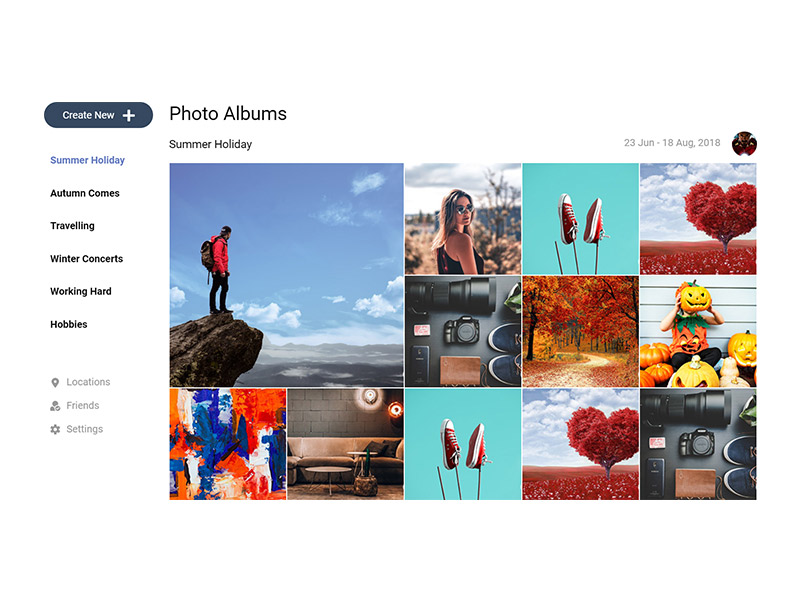
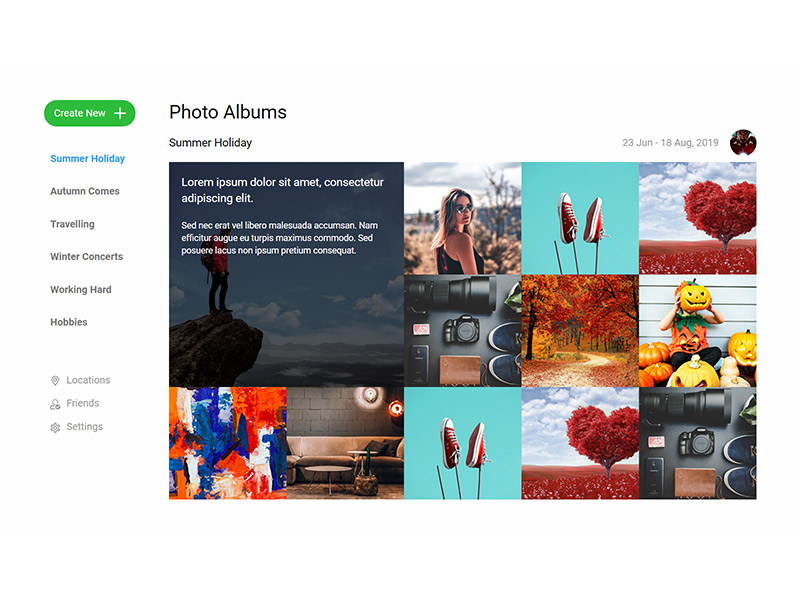
Documentation updates.

diff --git a/docs/photo-albums.html b/docs/photo-albums.html
@@ -63,15 +63,15 @@
             <div class="row">
                 <div class="col-static padding-30-v sm-responsive">
                     <div class="static-200 padding-30 order-sm-last sm-align-center">
-                        <a href="#" class="btn btn-lg btn-responsive circle theme-default ui-dark ease-btn">Create New <i class="icon icon-md icon-plus margin-10-l"></i></a>
+                        <a href="#" class="btn btn-lg btn-responsive circle theme-green ui-dark ease-btn">Create New <i class="icon icon-md icon-plus margin-10-l"></i></a>
                         <span class="sp30"></span>
                         <ul class="list-unstyled large bold list-spacer-30 padding-10 theme-default2">
                             <li><a class="ui-text" href="#">Summer Holiday</a></li>
-                            <li><a class="hoverline" href="#">Autumn Comes</a></li>
-                            <li><a class="hoverline" href="#">Travelling</a></li>
-                            <li><a class="hoverline" href="#">Winter Concerts</a></li>
-                            <li><a class="hoverline" href="#">Working Hard</a></li>
-                            <li><a class="hoverline" href="#">Hobbies</a></li>
+                            <li><a class="x-dark" href="#">Autumn Comes</a></li>
+                            <li><a class="x-dark" href="#">Travelling</a></li>
+                            <li><a class="x-dark" href="#">Winter Concerts</a></li>
+                            <li><a class="x-dark" href="#">Working Hard</a></li>
+                            <li><a class="x-dark" href="#">Hobbies</a></li>
                         </ul>
                         <span class="sp30"></span>
                         <ul class="list-unstyled large dark list-spacer-15 padding-10">
@@ -89,16 +89,20 @@
                                     <h4 class="margin-10-t">Summer Holiday</h4>
                                 </div>
                                 <div class="col-6 align-right xs-align-center">
-                                    <span class="dark large">23 Jun - 18 Aug, 2018</span>
+                                    <span class="dark large inline-block">23 Jun - 18 Aug, 2019</span>
                                     <img class="img-photo img-photo-sm circle margin-15-l" src="img/profile-image.jpg" alt="">
                                 </div>
                             </div>
 
                             <ul class="photo-gallery has-cover ease-photo-gallery theme-default2">
                                 <li>
-                                    <a class="img has-info" href="img/image_08.jpg">
+                                    <a class="img has-info show-info" href="img/image_08.jpg">
                                         <img src="img/image_08.jpg" alt="">
-                                        <span>Lorem ipsum dolor sit amet, consectetur adipiscing elit.</span>
+                                        <span>
+                                            <span class="x-large">Lorem ipsum dolor sit amet, consectetur adipiscing elit.</span>
+                                            <br><br>
+                                            Sed nec erat vel libero malesuada accumsan. Nam efficitur augue eu turpis maximus commodo. Sed posuere lacus non ipsum pretium consequat.
+                                        </span>
                                     </a>
                                 </li>
                                 <li>

diff --git a/docs/index.html b/docs/index.html
@@ -238,7 +238,10 @@
                         </div>
                         <div class="col-lg-3 col-4 col-md-6 sm-responsive">
                             <a class="portlet padding-5 rounded shadow-lg hover-shadow hover-up ease-layout" href="photo-albums.html">
-                                <img class="img-responsive margin-10-b" src="img/layout-photo-albums.jpg" alt="Photo Albums">
+                                <picture>
+                                    <source srcset="img/layout-photo-albums-dark.jpg" media="(prefers-color-scheme: dark)">
+                                    <img class="img-responsive margin-10-b" src="img/layout-photo-albums.jpg" alt="Photo Albums">
+                                </picture>
                                 Photo Albums
                             </a>
                         </div>
